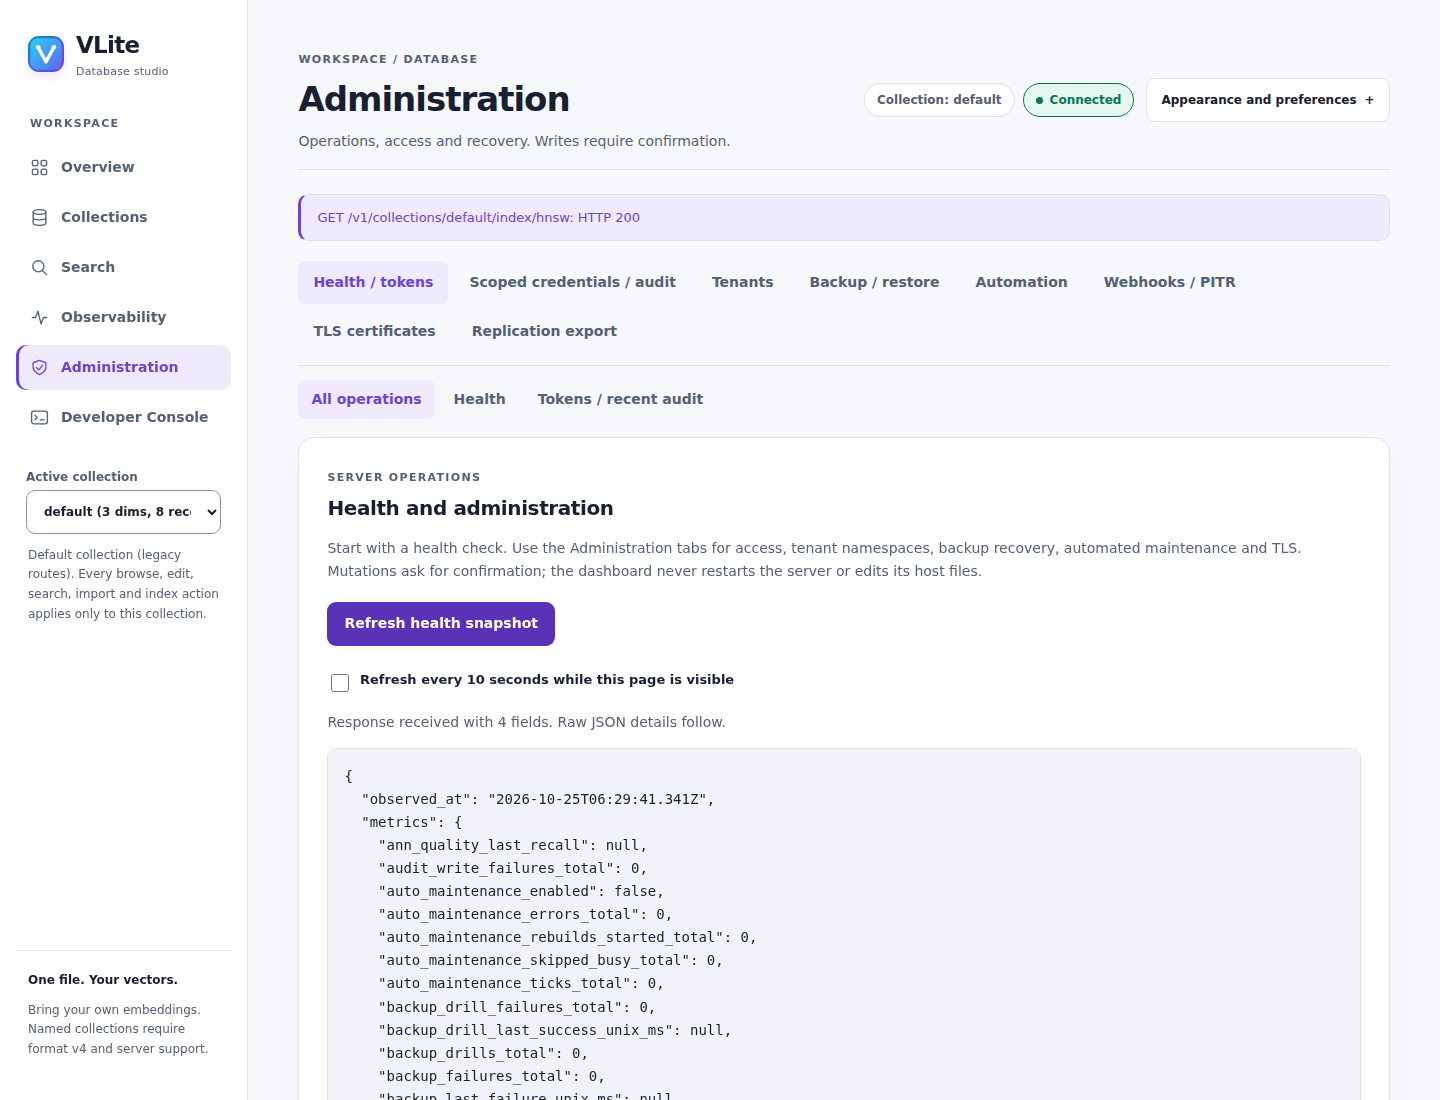
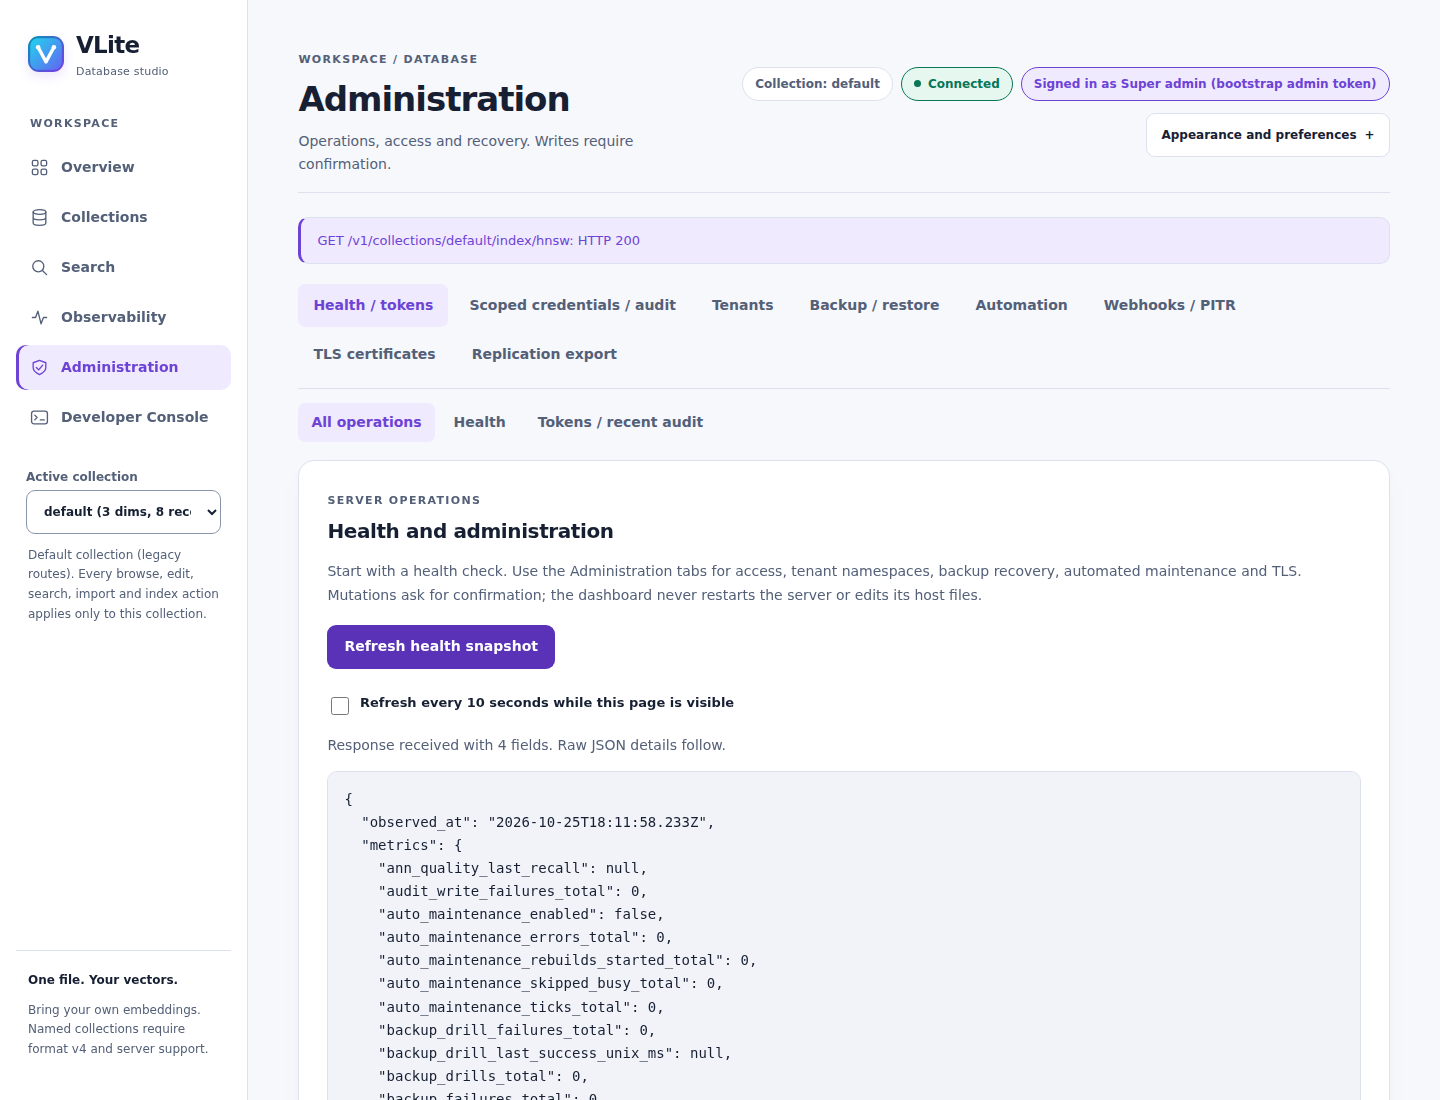
Recapture connected dashboard tour for identity and tenant lifecycle
Frames from dashboard-capture run 40219523169 on 6cf5d12 show the
signed-in identity badge and the tenant lifecycle panel; the manifest
hashes match the current dashboard assets. Update the tenants caption.

diff --git a/site/assets/site.js b/site/assets/site.js
@@ -83,7 +83,7 @@
         ["current-administration.png", "Administration: inspect server health and manage operational controls."],
         ["current-backups.png", "Backups: inspect a consistent snapshot and available restore controls."],
         ["current-credentials.png", "Credentials: issue limited access, rotate secrets and inspect audit history."],
-        ["current-tenants.png", "Tenants: create isolated namespaces and set their vector limits."],
+        ["current-tenants.png", "Tenants: create isolated namespaces, set vector limits and see each tenant's state and usage."],
         ["current-automation.png", "Automation: inspect and configure scheduled index maintenance."],
         ["current-webhooks.png", "Webhooks: manage change notifications and inspect delivery status."],
         ["current-tls.png", "TLS certificates: reload configured files; this HTTP demo explains why reload is unavailable."],
